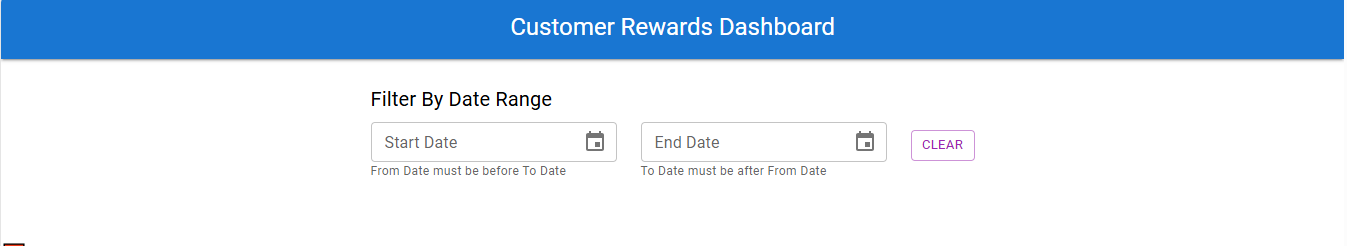
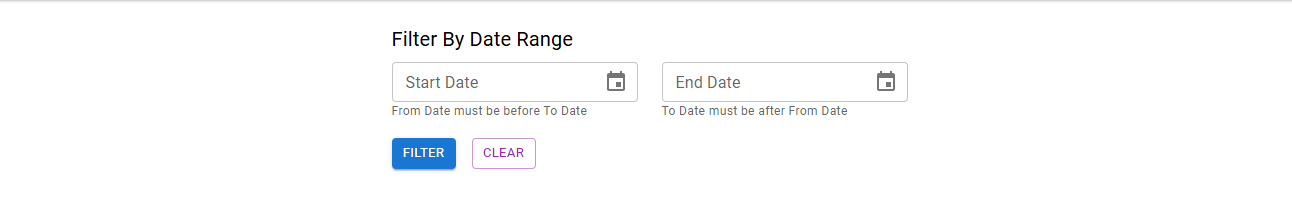
refactoring

diff --git a/src/components/DashboardView.jsx b/src/components/DashboardView.jsx
@@ -8,55 +8,15 @@ import UserMonthlyRewardsTable from './UserMonthlyRewardsTable';
 import TotalRewardsTable from './TotalRewardsTable';
 import TransactionsTable from './TransactionsTable';
 import MonthlyRewardsUserTable from './MonthlyRewardsUserTable';
-
 import DateRangeFilter from './DateRangeFilter';
 import dayjs from 'dayjs';
-
-/**
- * @component DashboardView
- * @description
- * Renders the main dashboard view for displaying customer rewards data.
- * It handles data fetching, filtering by date range, and renders
- * several summary and detail tables.
- *
- * ## Features
- * - Fetches transaction data from API on mount
- * - Logs lifecycle and transaction state using a custom logger
- * - Filters transactions by selected date range (inclusive)
- * - Displays multiple rewards-related tables:
- *   - Monthly rewards grouped by customer
- *   - Aggregated rewards per customer
- *   - Overall transactions table
- *   - Individual monthly view for transactions
- *
- * ## Internal State
- * @state {boolean} loading - Indicates if data is being fetched
- * @state {string} error - Stores fetch error message
- * @state {Array<Object>} transactions - Full list of transactions
- * @state {Object} dateRange - Currently selected start and end dates for filtering
- *
- * ## Rendering
- * - Shows loader or error message if needed
- * - Renders DateRangeFilter component for user input
- * - Applies date filter to transactions before passing to summary tables
- *
- * @returns {JSX.Element} Dashboard layout with rewards summaries and filters
- */
 
 function DashboardView() {
   const [loading, setLoading] = useState(true);
   const [error, setError] = useState('');
   const [transactions, setTransactions] = useState([]);
+  const [filteredTxns, setFilteredTxns] = useState([]);
   const [dateRange, setDateRange] = useState({ start: null, end: null });
-
-  const filteredTxns = transactions.filter((txn) => {
-    if (!dateRange.start || !dateRange.end) return true;
-    const txnDate = dayjs(txn.date);
-    return (
-      txnDate.isAfter(dateRange.start.subtract(1, 'day')) &&
-      txnDate.isBefore(dateRange.end.add(1, 'day'))
-    );
-  });
 
   useEffect(() => {
     logger.info('[Dashboard] Fetching transactions...');
@@ -66,6 +26,7 @@ function DashboardView() {
         const sortedtxn = sortTransactionsByDate(txns);
         logger.debug('[Dashboard] Sorted transactions:', sortedtxn);
         setTransactions(sortedtxn);
+        setFilteredTxns(sortedtxn); // Show all by default
       })
       .catch((err) => {
         logger.error('[Dashboard] Failed to fetch transactions:', err);
@@ -76,6 +37,27 @@ function DashboardView() {
         setLoading(false);
       });
   }, []);
+
+  const handleFilter = () => {
+    if (!dateRange.start || !dateRange.end) {
+      setFilteredTxns(transactions);
+      return;
+    }
+
+    const filtered = transactions.filter((txn) => {
+      const txnDate = dayjs(txn.date);
+      return (
+        txnDate.isAfter(dateRange.start.subtract(1, 'day')) &&
+        txnDate.isBefore(dateRange.end.add(1, 'day'))
+      );
+    });
+
+    setFilteredTxns(filtered);
+  };
+  const handleClear = () => {
+    setDateRange({ start: null, end: null });
+    setFilteredTxns(transactions); // reset to full data here
+  };
 
   if (loading)
     return (
@@ -92,13 +74,19 @@ function DashboardView() {
         <h2>Loading Dashboard data...</h2>
       </Box>
     );
+
   if (error) return <h2 style={{ color: 'crimson' }}>{error}</h2>;
 
   return (
     <>
       <HeaderBar />
       <Box sx={{ flexGrow: 1, display: 'flex', justifyContent: 'center' }}>
-        <DateRangeFilter dateRange={dateRange} setDateRange={setDateRange} />
+        <DateRangeFilter
+          dateRange={dateRange}
+          setDateRange={setDateRange}
+          onFilter={handleFilter}
+          onClear={handleClear}
+        />
       </Box>
       <Box m={2}>
         <MonthlyRewardsUserTable transactions={filteredTxns} />

diff --git a/src/components/DateRangeFilter.test.jsx b/src/components/DateRangeFilter.test.jsx
@@ -1,3 +1,4 @@
+
 import React from 'react';
 import { render, screen } from '@testing-library/react';
 import userEvent from '@testing-library/user-event';
@@ -5,47 +6,85 @@ import DateRangeFilter from './DateRangeFilter';
 import dayjs from 'dayjs';
 
 describe('DateRangeFilter', () => {
-  const mockSetDateRange = jest.fn();
   const defaultDateRange = {
     start: dayjs('2025-04-01'),
     end: dayjs('2025-05-01'),
   };
 
-  beforeEach(() => {
-    mockSetDateRange.mockClear();
-    render(<DateRangeFilter dateRange={defaultDateRange} setDateRange={mockSetDateRange} />);
-  });
+  const setup = (props = {}) => {
+    const mockSetDateRange = jest.fn();
+    const mockOnFilter = jest.fn();
+    const mockOnClear = jest.fn();
 
-  test('renders heading and both date pickers', () => {
+    render(
+      <DateRangeFilter
+        dateRange={defaultDateRange}
+        setDateRange={mockSetDateRange}
+        onFilter={mockOnFilter}
+        onClear={mockOnClear}
+        {...props}
+      />
+    );
+
+    return {
+      mockSetDateRange,
+      mockOnFilter,
+      mockOnClear,
+    };
+  };
+
+  test('renders headings, date pickers, and buttons', () => {
+    setup();
     expect(screen.getByText(/Filter By Date Range/i)).toBeInTheDocument();
     expect(screen.getAllByLabelText(/Start Date/i).length).toBeGreaterThan(0);
     expect(screen.getAllByLabelText(/End Date/i).length).toBeGreaterThan(0);
     expect(screen.getByText(/From Date must be before To Date/i)).toBeInTheDocument();
     expect(screen.getByText(/To Date must be after From Date/i)).toBeInTheDocument();
+    expect(screen.getByRole('button', { name: /Filter/i })).toBeInTheDocument();
+    expect(screen.getByRole('button', { name: /Clear/i })).toBeInTheDocument();
   });
 
-  test('calls setDateRange when Start Date changes', async () => {
-    const user = userEvent;
-    const input = screen.getAllByLabelText(/Start Date/i)[1];
+  test('calls setDateRange when start date is changed', async () => {
+    const { mockSetDateRange } = setup();
+    const user = userEvent
+
+    const input = screen.getAllByLabelText(/Start Date/i)[1]; // MUI renders label twice
     await user.clear(input);
-    await user.type(input, '04/15/2025');
-    await user.tab(); // trigger blur event
+    await user.type(input, '04/10/2025');
+    await user.tab(); // blur to trigger
+
     expect(mockSetDateRange).toHaveBeenCalled();
   });
 
-  test('calls setDateRange when End Date changes', async () => {
+  test('calls setDateRange when end date is changed', async () => {
+    const { mockSetDateRange } = setup();
     const user = userEvent;
+
     const input = screen.getAllByLabelText(/End Date/i)[1];
     await user.clear(input);
     await user.type(input, '05/15/2025');
     await user.tab();
+
     expect(mockSetDateRange).toHaveBeenCalled();
   });
 
-  test('clears both dates when Clear button is clicked', async () => {
+  test('calls onFilter when Filter button is clicked', async () => {
+    const { mockOnFilter } = setup();
     const user = userEvent;
+
+    const filterBtn = screen.getByRole('button', { name: /Filter/i });
+    await user.click(filterBtn);
+
+    expect(mockOnFilter).toHaveBeenCalled();
+  });
+
+  test('calls onClear when Clear button is clicked', async () => {
+    const { mockOnClear } = setup();
+    const user = userEvent;
+
     const clearBtn = screen.getByRole('button', { name: /Clear/i });
     await user.click(clearBtn);
-    expect(mockSetDateRange).toHaveBeenCalledWith({ start: null, end: null });
+
+    expect(mockOnClear).toHaveBeenCalled();
   });
 });

diff --git a/src/components/DateRangeFilter.jsx b/src/components/DateRangeFilter.jsx
@@ -11,17 +11,18 @@ import { AdapterDayjs } from '@mui/x-date-pickers/AdapterDayjs';
  * @param {Object} props
  * @param {Object} props.dateRange - { start: Date|null, end: Date|null }
  * @param {Function} props.setDateRange - callback to update the range
+ * @param {Function} props.onFilter - callback to trigger filtering
  */
-function DateRangeFilter({ dateRange, setDateRange }) {
-  const handleClear = () => setDateRange({ start: null, end: null });
-
+function DateRangeFilter({ dateRange, setDateRange, onFilter, onClear }) {
   return (
     <LocalizationProvider dateAdapter={AdapterDayjs}>
       <Box sx={{ mt: 3, mb: 2 }}>
         <Typography variant="h6" gutterBottom>
           Filter By Date Range
         </Typography>
-        <Box display="flex" flexWrap="wrap" alignItems="flex-start" gap={3} sx={{ mb: 1 }}>
+
+        <Box display="flex" flexWrap="wrap" alignItems="flex-start" gap={3}>
+          {/* Start Date */}
           <Box display="flex" flexDirection="column" alignItems="flex-start">
             <DatePicker
               label="Start Date"
@@ -34,6 +35,7 @@ function DateRangeFilter({ dateRange, setDateRange }) {
             </Typography>
           </Box>
 
+          {/* End Date */}
           <Box display="flex" flexDirection="column" alignItems="flex-start">
             <DatePicker
               label="End Date"
@@ -45,14 +47,14 @@ function DateRangeFilter({ dateRange, setDateRange }) {
               To Date must be after From Date
             </Typography>
           </Box>
+        </Box>
 
-          <Button
-            onClick={handleClear}
-            variant="outlined"
-            color="secondary"
-            size="small"
-            sx={{ height: 'fit-content', mt: 1 }}
-          >
+        {/* Buttons */}
+        <Box display="flex" gap={2} mt={2}>
+          <Button onClick={onFilter} variant="contained" color="primary" size="small">
+            Filter
+          </Button>
+          <Button onClick={onClear} variant="outlined" color="secondary" size="small">
             Clear
           </Button>
         </Box>
@@ -67,6 +69,8 @@ DateRangeFilter.propTypes = {
     end: PropTypes.object,
   }).isRequired,
   setDateRange: PropTypes.func.isRequired,
+  onFilter: PropTypes.func.isRequired,
+  onClear: PropTypes.func.isRequired,
 };
 
 export default DateRangeFilter;

diff --git a/README.md b/README.md
@@ -32,7 +32,7 @@ Your app is ready to be deployed!
 
 ### `Screen for data filter by date range`
 
-![alt text](./assets/filter-screen.png)
+![filter-screen-preview](./assets/filter-screen.png)
 
 ### `Table for Users monthly rewards`
 ![alt text](./assets/users-monthly-rewards.png)
